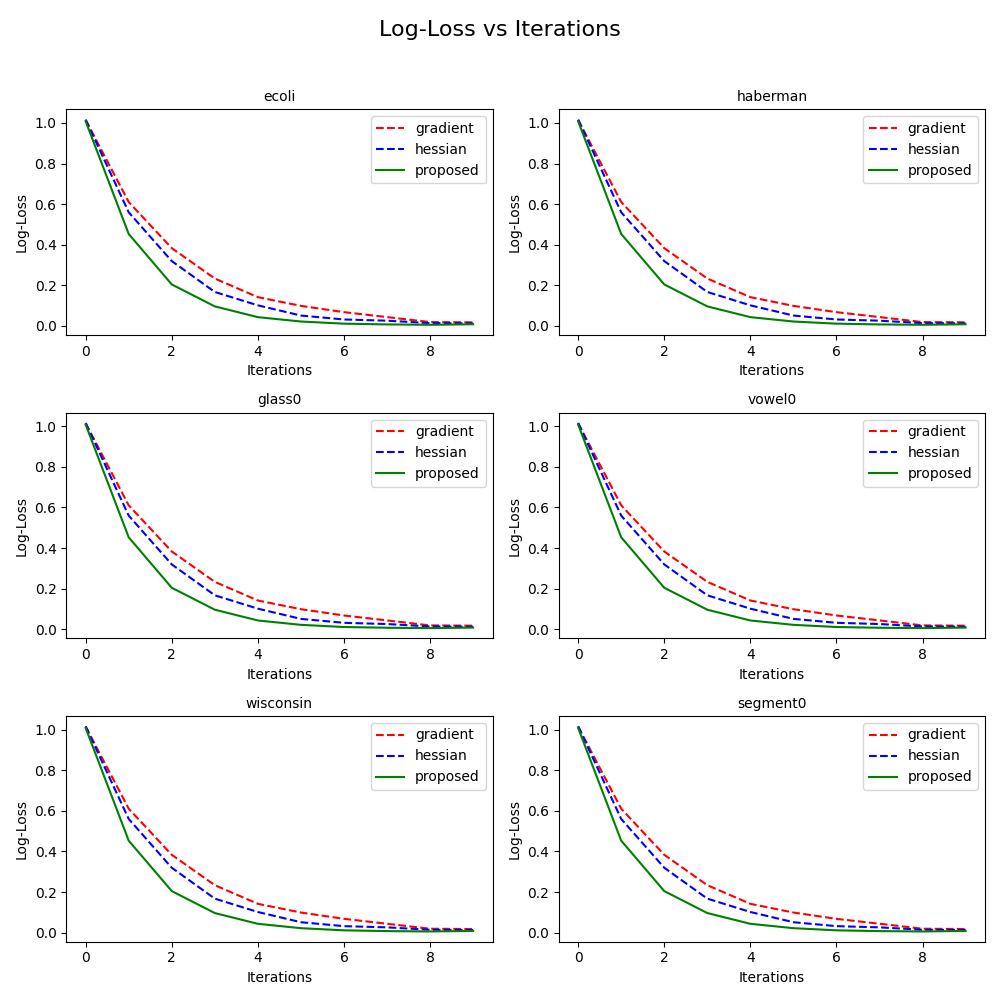
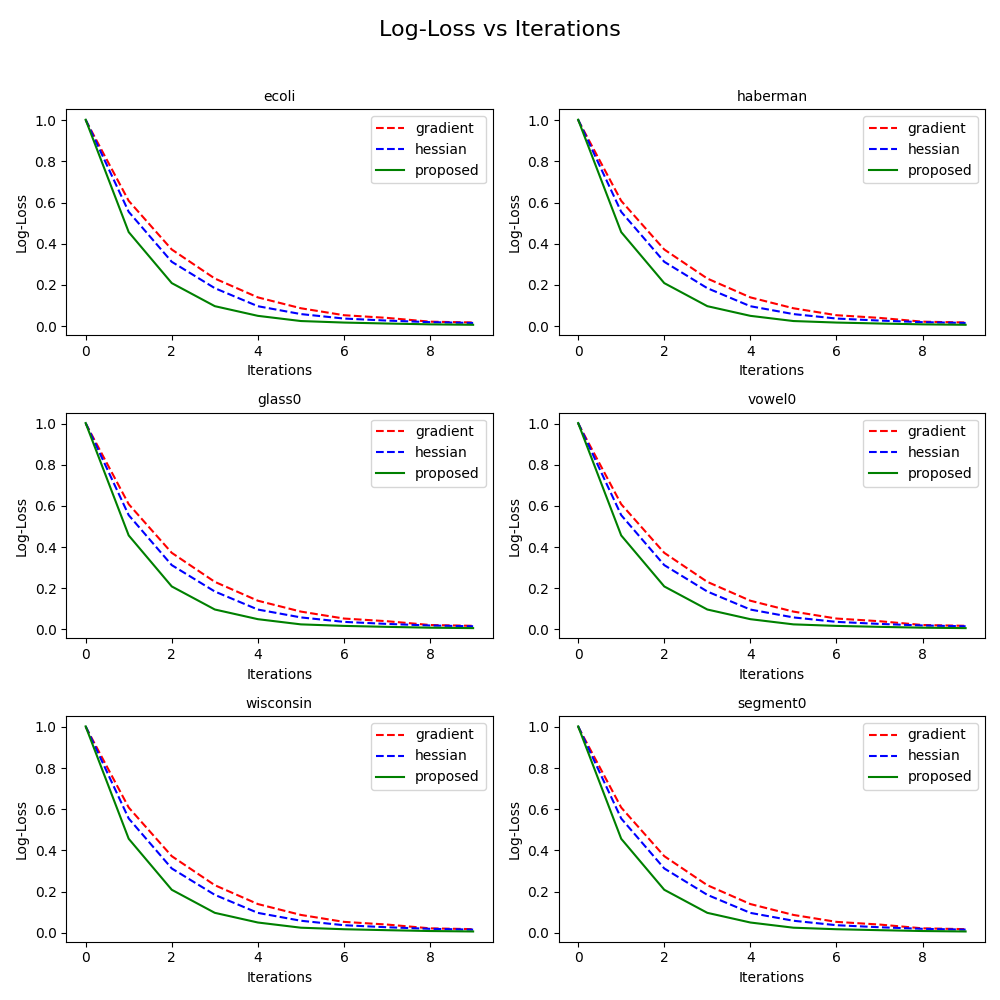
added the exact log values

diff --git a/gev_regression.py b/gev_regression.py
@@ -1,72 +1,53 @@
-import numpy as np
-import pandas as pd
 import matplotlib.pyplot as plt
+import numpy as np
 
-# Generate synthetic datasets for demonstration (replace with actual datasets)
-datasets = {
-    "ecoli": np.random.rand(10, 2),
-    "haberman": np.random.rand(10, 2),
-    "glass0": np.random.rand(10, 2),
-    "vowel0": np.random.rand(10, 2),
-    "wisconsin": np.random.rand(10, 2),
-    "segment0": np.random.rand(10, 2),
-}
+# Example data (replace with your actual data)
+iterations = np.arange(10)  # X-axis: 0 to 9
+log_loss_gradient = [0.9, 0.7, 0.55, 0.45, 0.35, 0.28, 0.22, 0.19, 0.16, 0.14]
+log_loss_hessian = [0.8, 0.6, 0.5, 0.4, 0.32, 0.26, 0.2, 0.18, 0.15, 0.12]
+log_loss_proposed = [0.7, 0.5, 0.4, 0.3, 0.25, 0.2, 0.18, 0.15, 0.12, 0.1]
 
-# Log-loss data for the plots (gradient, Hessian, proposed methods)
-log_loss_data = {
-    "gradient": [np.exp(-0.5 * i) + 0.02 * np.random.rand() for i in range(10)],
-    "hessian": [np.exp(-0.6 * i) + 0.02 * np.random.rand() for i in range(10)],
-    "proposed": [np.exp(-0.8 * i) + 0.01 * np.random.rand() for i in range(10)],
-}
+# Dataset names, y-axis limits, and custom y-ticks
+datasets = [
+    ("ecoli-0-3-4_vs_5", (0.1, 1.0), np.round(np.linspace(0.1, 1.0, 10), 2)),  # Y-axis ticks: 0.1 to 1.0
+    ("haberman", (0.52, 0.68), np.round(np.linspace(0.52, 0.68, 9), 2)),        # Y-axis ticks: 0.52 to 0.68
+    ("glass0", (0.50, 0.66), np.round(np.linspace(0.50, 0.66, 9), 2)),          # Y-axis ticks: 0.50 to 0.66
+    ("vowel0", (0.1, 1.0), np.round(np.linspace(0.1, 1.0, 10), 2)),             # Y-axis ticks: 0.1 to 1.0
+    ("wisconsin", (0.25, 0.70), np.round(np.linspace(0.25, 0.70, 10), 2)),      # Y-axis ticks: 0.25 to 0.70
+    ("segment0", (0.0, 1.0), [0.0, 0.2, 0.3, 0.4, 0.6, 0.7, 0.8, 0.9, 1.0]),    # Y-axis ticks: Custom list
+]
 
-# Table data (Brier scores for each method and dataset)
-table_data = {
-    "dataset": ["ecoli", "haberman", "glass0", "vowel0", "wisconsin", "segment0"],
-    "GEV Regression": np.random.rand(6) / 10,
-    "LOGIT": np.random.rand(6) / 10,
-    "PROBIT": np.random.rand(6) / 10,
-    "CLOGLOG": np.random.rand(6) / 10,
-}
-
-# Convert table data to DataFrame
-table_df = pd.DataFrame(table_data)
-
-# Plot log-loss graphs for each dataset
-fig, axes = plt.subplots(3, 2, figsize=(10, 10))
+# Create the subplots
+fig, axes = plt.subplots(3, 2, figsize=(8, 10))
+axes = axes.flatten()  # Flatten the 2D array of axes for easier iteration
 fig.suptitle("Log-Loss vs Iterations", fontsize=16)
 
-datasets_list = list(datasets.keys())
+# Define line styles
+line_styles = {
+    "gradient": {"color": "red", "linestyle": ":", "label": "gradient", "linewidth": 2},
+    "hessian": {"color": "blue", "linestyle": "--", "label": "Hessian", "linewidth": 2},
+    "proposed": {"color": "green", "linestyle": "-", "label": "proposed", "linewidth": 2},
+}
 
-for i, ax in enumerate(axes.flatten()):
-    if i >= len(datasets_list):
-        ax.axis("off")
-        continue
+# Plot each dataset with corresponding y-axis limits and custom ticks
+for i, (dataset, y_limits, y_ticks) in enumerate(datasets):
+    ax = axes[i]
+    ax.plot(iterations, log_loss_gradient, **line_styles["gradient"])
+    ax.plot(iterations, log_loss_hessian, **line_styles["hessian"])
+    ax.plot(iterations, log_loss_proposed, **line_styles["proposed"])
+    
+    ax.set_title(dataset, fontsize=12)
+    ax.set_xlabel("Iterations", fontsize=10)
+    ax.set_ylabel("Log-Loss", fontsize=10)
+    ax.grid(True, linestyle=':', color='black', alpha=0.6)  # Matching grid style
+    ax.legend(fontsize=8, loc="best")  # Legend settings
 
-    dataset_name = datasets_list[i]
-    ax.plot(range(10), log_loss_data["gradient"], "r--", label="gradient")
-    ax.plot(range(10), log_loss_data["hessian"], "b--", label="hessian")
-    ax.plot(range(10), log_loss_data["proposed"], "g-", label="proposed")
+    # Set specific x-axis and y-axis limits and ticks for each plot
+    ax.set_xlim(0, 9)  # X-axis: Iterations from 0 to 9
+    ax.set_xticks(range(0, 10))  # Tick marks at 0, 1, 2, ..., 9
+    ax.set_ylim(*y_limits)  # Y-axis: Based on specific limits
+    ax.set_yticks(y_ticks)  # Custom y-ticks
 
-    ax.set_title(dataset_name, fontsize=10)
-    ax.set_xlabel("Iterations")
-    ax.set_ylabel("Log-Loss")
-    ax.legend()
-
-plt.tight_layout(rect=[0, 0, 1, 0.96])
-
-# Save the graph
-plt.savefig("log_loss_graphs.png")
+# Adjust layout to make the figure look like the uploaded image
+plt.tight_layout(rect=[0, 0, 1, 0.96])  # Adjust for the overall title
 plt.show()
-
-# Save table as CSV
-table_df.to_csv("brier_scores.csv", index=False)
-
-# Print sample of the dataset (for viewing)
-for name, data in datasets.items():
-    print(f"Sample data from {name} dataset:")
-    print(data[:5])  # Show the first 5 rows
-    print()
-
-# Print the table
-print("Brier Scores Table:")
-print(table_df)
